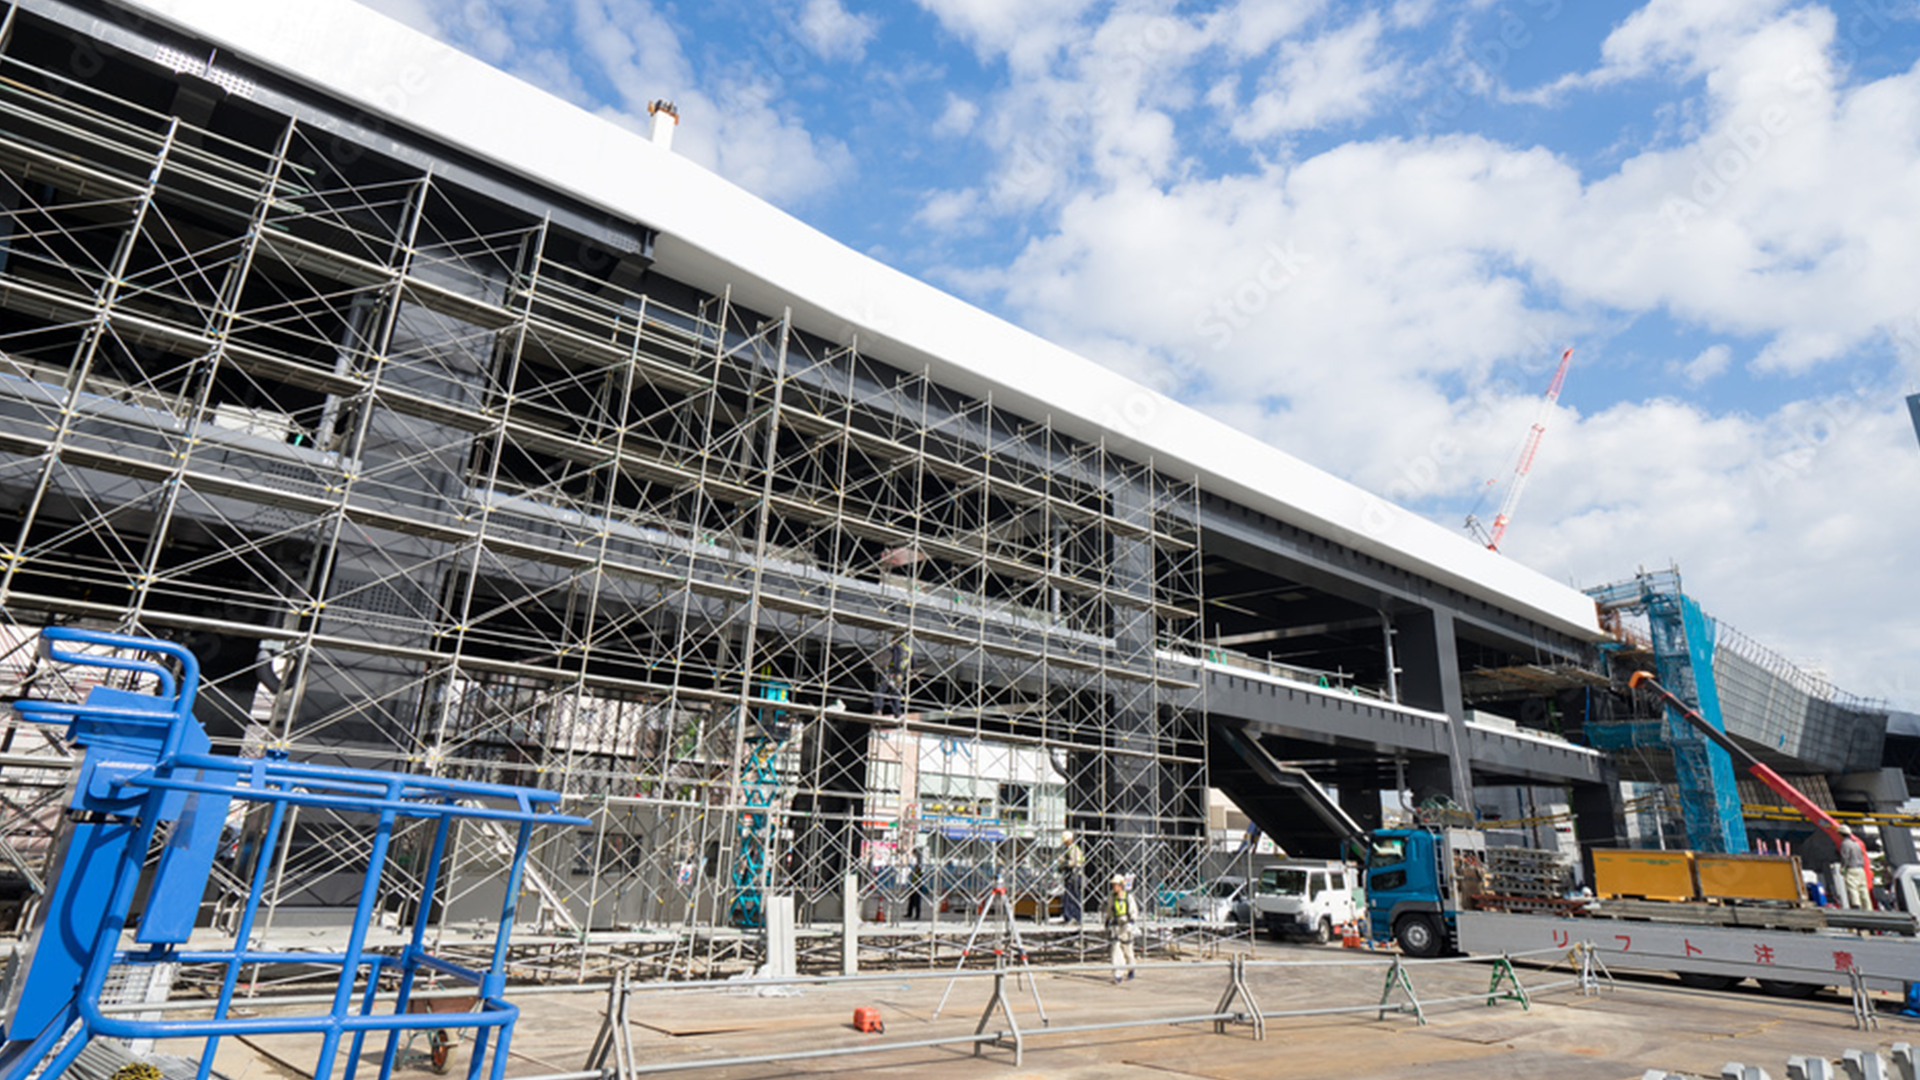
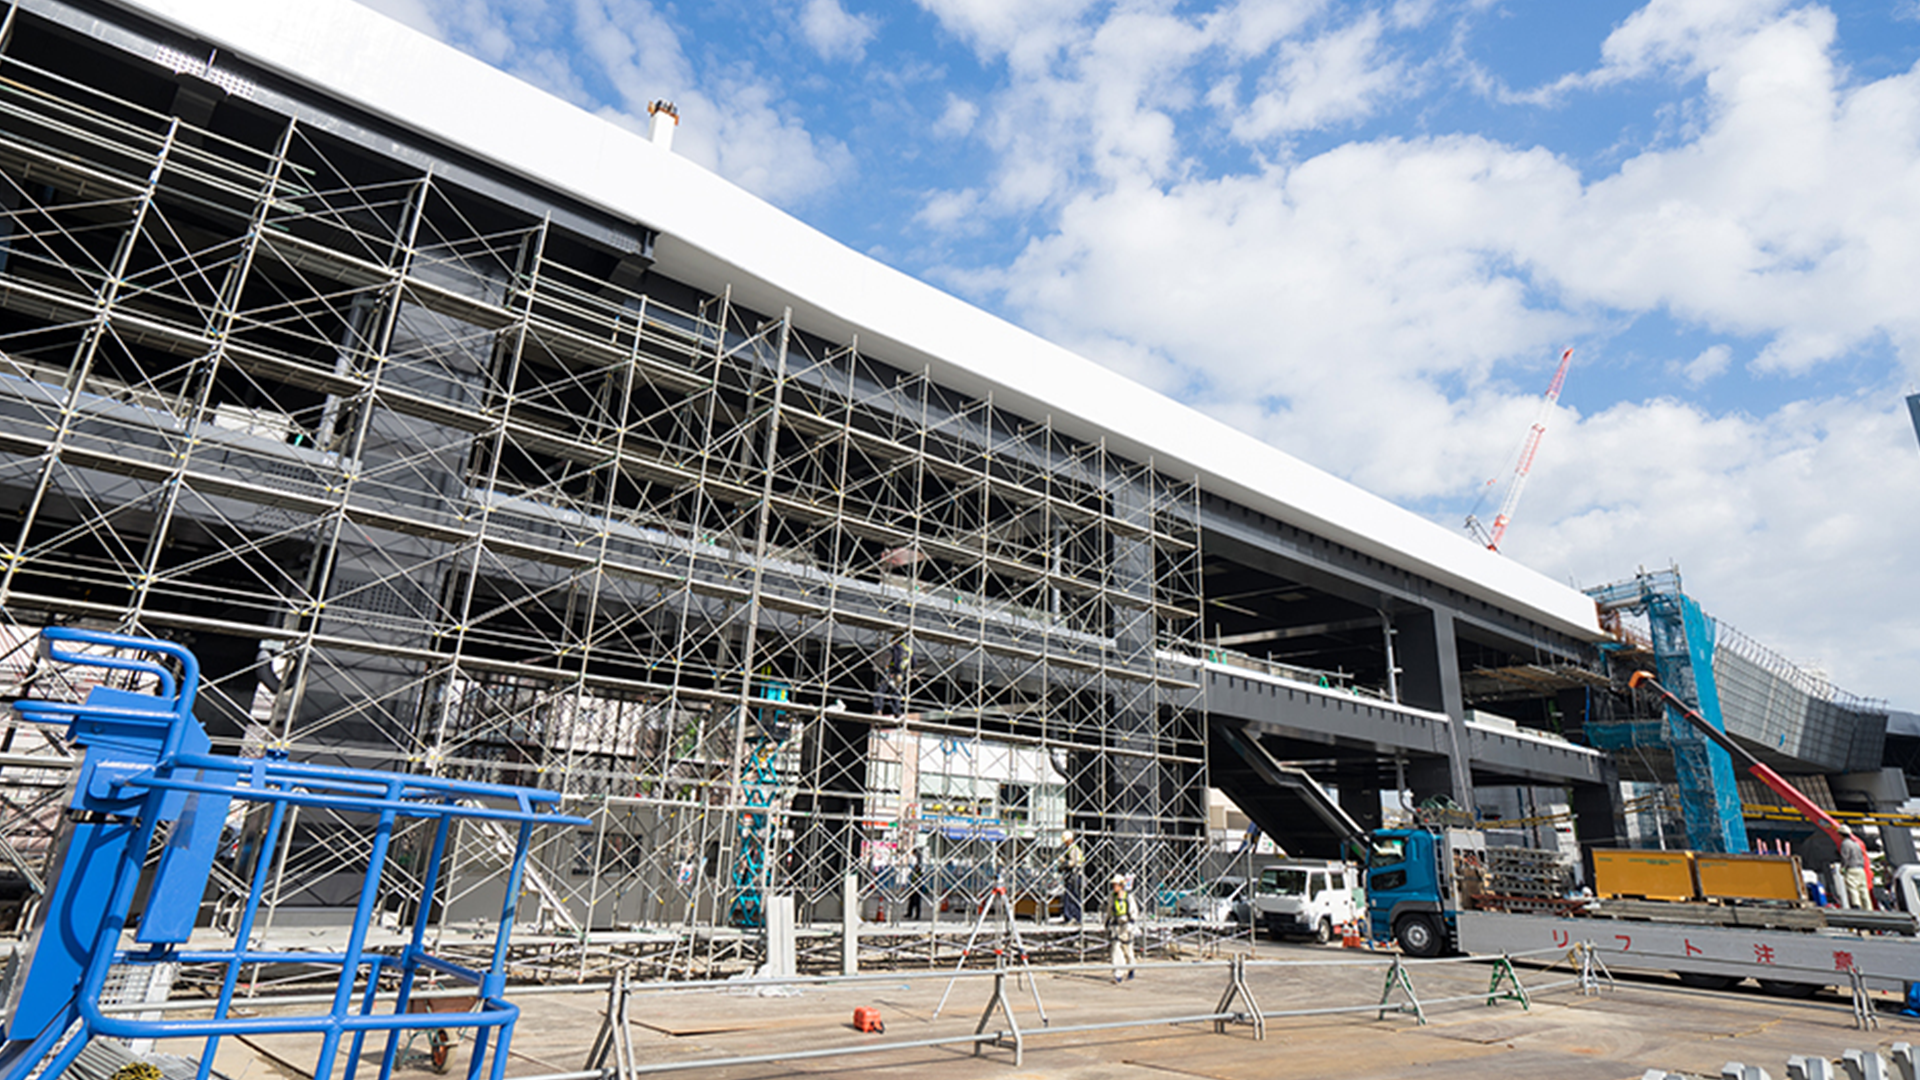
“Adobe写真差し替え”

diff --git a/src/components/omoi/MessagePhase.tsx b/src/components/omoi/MessagePhase.tsx
@@ -23,7 +23,7 @@ const LEFT_IMAGES = [
   { src: "/images/section3/scene5.webp", height: "h-[160px]" },
 ];
 
-// 右側（SP下部）用画像（6枚）※ファイル名は実際のプロジェクトアセットに合わせて調整してほしい[cite: 2]
+// 右側（SP下部）用画像（6枚）
 const RIGHT_IMAGES = [
   { src: "/images/section3/scene6.webp", height: "h-[160px]" },
   { src: "/images/section3/scene7.webp", height: "h-[160px]" },
@@ -41,7 +41,7 @@ interface Props {
 
 export default function MessagePhase({ scrollYProgress }: Props) {
   // ==========================================
-  // 前半フェーズのスクロール制御（0.0 ~ 0.5 に圧縮）
+  // 前半フェーズのスクロール制御
   // ==========================================
 
   const scene1Opacity = useTransform(
@@ -76,7 +76,7 @@ export default function MessagePhase({ scrollYProgress }: Props) {
   );
 
   // ==========================================
-  // 放射アニメーション（0.25 ~ 0.375 付近で発火）
+  // 放射アニメーション
   // ==========================================
   const radialOpacity0 = useTransform(scrollYProgress, [0.25, 0.325], [0, 0.6]);
   const radialScale0 = useTransform(scrollYProgress, [0.25, 0.35], [0.2, 1]);
@@ -121,7 +121,6 @@ export default function MessagePhase({ scrollYProgress }: Props) {
 
   return (
     <div className="absolute inset-0 w-full h-full pointer-events-none z-10 overflow-hidden flex items-center justify-center">
-      {/* 背景レイヤー（省略せず記述） */}
       <div className="absolute inset-0 w-full h-full z-0" aria-hidden="true">
         <motion.div
           style={{
@@ -190,7 +189,7 @@ export default function MessagePhase({ scrollYProgress }: Props) {
                 fill
                 sizes="20vw"
                 className="object-cover opacity-70"
-                priority={index < 2} // ★ 先回り提案: 画面内に入る最初の画像を優先ロード
+                priority={index < 2}
               />
             </div>
           ))}
@@ -263,7 +262,7 @@ export default function MessagePhase({ scrollYProgress }: Props) {
                 fill
                 sizes="60vw"
                 className="object-cover opacity-70"
-                priority={index < 2} // ★ 先回り提案
+                priority={index < 2}
               />
             </div>
           ))}
@@ -298,7 +297,7 @@ export default function MessagePhase({ scrollYProgress }: Props) {
                 fill
                 sizes="60vw"
                 className="object-cover opacity-70"
-                priority={index < 2} // ★ 先回り提案
+                priority={index < 2}
               />
             </div>
           ))}
@@ -358,7 +357,6 @@ export default function MessagePhase({ scrollYProgress }: Props) {
           className="absolute inset-0 flex flex-col items-center justify-center w-full h-full"
         >
           <div className="absolute inset-0 flex items-center justify-center pointer-events-none z-0">
-            {/* 0社, 3社, 10社, 1社, 5社の放射アニメーション（省略せず記述） */}
             <motion.div
               style={{
                 opacity: radialOpacity0,

diff --git a/src/components/omoi/LoadingPhase.tsx b/src/components/omoi/LoadingPhase.tsx
@@ -18,8 +18,6 @@ const BACKGROUND_IMAGES = [
   "/images/photo/scene10.webp",
 ];
 
-// 【演出のキモ】各画像の表示時間を配列で定義（ミリ秒）
-// ゆっくり始まり → 加速し → 最後（10枚目）で長く「タメる」
 const TIMINGS = [800, 600, 400, 200, 150, 150, 150, 200, 300, 1500];
 
 // プログレスバー用に合計時間を計算
@@ -46,10 +44,8 @@ export default function LoadingPhase({
 
   // 2. 可変リズムの画像切り替えロジック
   useEffect(() => {
-    // 最後の画像を「タメた」あと、Phase 2へ移行
     if (currentImageIndex >= BACKGROUND_IMAGES.length - 1) {
       const timeout = setTimeout(() => {
-        // 👇 状態更新をstartTransitionでラップしてレンダリングの優先度を下げる
         startTransition(() => {
           onComplete();
         });
@@ -57,7 +53,6 @@ export default function LoadingPhase({
       return () => clearTimeout(timeout);
     }
 
-    // TIMINGS配列で指定した秒数後に、次の画像へインデックスを進める
     const timeout = setTimeout(() => {
       setCurrentImageIndex((prev) => prev + 1);
     }, TIMINGS[currentImageIndex]);
@@ -73,7 +68,6 @@ export default function LoadingPhase({
       )}
       style={{ backgroundColor: "#003064" }}
     >
-      {/* --- 背景画像の切り替え（スケール＋イージング追加） --- */}
       <AnimatePresence mode="popLayout">
         <motion.img
           key={currentImageIndex}
@@ -85,8 +79,8 @@ export default function LoadingPhase({
           initial={{ opacity: 0, scale: 1.1 }}
           animate={{ opacity: 0.6, scale: 1 }}
           transition={{
-            opacity: { duration: 0.2 }, // 0.2秒でパッとフェードイン
-            scale: { duration: 4, ease: "easeOut" }, // 4秒かけてゆっくり縮小（表示中は常に動き続ける）
+            opacity: { duration: 0.2 },
+            scale: { duration: 4, ease: "easeOut" },
           }}
           style={{ willChange: "transform, opacity" }}
         />
@@ -106,7 +100,7 @@ export default function LoadingPhase({
         />
       </motion.div>
 
-      {/* --- ローディングバー（全体の可変時間と同期） --- */}
+      {/* --- ローディングバー --- */}
       <div
         className={cn(
           "relative z-10 w-48 md:w-64 h-px bg-white/20 mt-8 overflow-hidden",
@@ -116,14 +110,13 @@ export default function LoadingPhase({
           className="h-full bg-white"
           initial={{ width: "0%" }}
           animate={{ width: "100%" }}
-          // TOTAL_DURATIONを使って、加速やタメを含めた全体の時間とバーの進行をピッタリ合わせる
           transition={{ duration: TOTAL_DURATION, ease: "easeInOut" }}
         />
       </div>
       <motion.div
         className={cn("absolute inset-0 bg-midblue z-50 pointer-events-none")}
         initial={{ opacity: 0 }}
-        exit={{ opacity: 1 }} // コンポーネントが破棄される瞬間にフェードイン（不透明になる）
+        exit={{ opacity: 1 }}
         transition={{ duration: 0.6, ease: "easeInOut" }}
       />
     </motion.div>

diff --git a/src/components/omoi/MapTransitionPhase.tsx b/src/components/omoi/MapTransitionPhase.tsx
@@ -9,31 +9,17 @@ export default function MapTransitionPhase() {
 
   const { scrollYProgress } = useScroll({
     target: containerRef,
-    // 💡 修正ポイント：トリガーのタイミングを調整
-    // FVの直下に配置されるため、このセクションの頭が画面下部に入った瞬間に開始
     offset: ["start end", "end start"],
   });
 
   // --- 1. 日本地図のスケール（画面中央から巨大化） ---
-  // スクロールの序盤（0〜0.4）で圧倒的な倍率へ
   const svgScale = useTransform(scrollYProgress, [0, 0.4], [0, 300]);
 
   // --- 2. 隙間防止用の強制塗りつぶしレイヤー ---
-  // スケールの拡大が終わる直前（0.35〜0.4）で青にフェードイン
   const blueFillOpacity = useTransform(scrollYProgress, [0.35, 0.4], [0, 1]);
 
   return (
-    <section
-      ref={containerRef}
-      // 👇 ネガティブマージン (-mt-[100vh]) を完全削除。
-      // これによりFVに被らず、FVの下から自然にスクロールインしてくる。
-      className="relative w-full h-[400vh]"
-    >
-      {/* 
-         💡 stickyの開始位置を top-0 に設定。
-         FVをスクロールしきって、このセクションの頭が画面上端に来たら固定される。
-         背景は白（bg-white）で、FVのダークなトーンから切り替わる。
-      */}
+    <section ref={containerRef} className="relative w-full h-[400vh]">
       <div className="sticky top-0 left-0 w-full h-screen overflow-hidden bg-white flex items-center justify-center">
         {/* =========================================================
             メイン：中央から拡大する日本地図レイヤー
@@ -41,15 +27,12 @@ export default function MapTransitionPhase() {
         <motion.div
           style={{
             scale: svgScale,
-            // 💡 中心を絶対に固定
             originX: 0.5,
             originY: 0.5,
             willChange: "transform",
           }}
-          // w-[50vw] でPC閲覧時に適切な初期サイズを担保
           className="absolute w-[50vw] max-w-[600px] flex items-center justify-center"
         >
-          {/* public/images/section2/japan.svg */}
           <img
             src="/images/section2/japan.svg"
             alt="Japan Map"

diff --git a/src/components/omoi/JapanMapInteractive.tsx b/src/components/omoi/JapanMapInteractive.tsx
@@ -12,7 +12,6 @@ interface Props {
   activeRegionId: string;
 }
 
-// サイズ感を安定させたカメラワーク設定（PC/SP）
 const CAMERA_CONFIG: Record<string, { pc: any; sp: any }> = {
   hokkaido: {
     pc: { scale: 2.2, x: "5%", y: "55%" },
@@ -65,14 +64,12 @@ const JapanMapInteractive = memo(({ activePrefId, activeRegionId }: Props) => {
   const config = CAMERA_CONFIG[activeRegionId] || CAMERA_CONFIG.kanto;
   const targetCamera = isMobile ? config.sp : config.pc;
 
-  // 📌 現在アクティブな地方に属する「都道府県IDのリスト」を取得
   const activeRegion = REGIONS.find((r) => r.id === activeRegionId);
   const activeRegionPrefIds = activeRegion
     ? activeRegion.prefectures.map((p) => p.prefId)
     : [];
 
   return (
-    // 📌 地図全体が暴走しないよう、最大幅と中央配置を制限するインナーコンテナ
     <div className="relative w-full max-w-[300px] md:max-w-[500px] aspect-[3750.8/4260.3] flex items-center justify-center pointer-events-none">
       <motion.div
         animate={targetCamera}
@@ -85,9 +82,8 @@ const JapanMapInteractive = memo(({ activePrefId, activeRegionId }: Props) => {
           aria-hidden="true"
         >
           {MAP_PATHS.map((pref) => {
-            // 📌 3段階の判定ロジック
-            const isActivePref = activePrefId === pref.id; // ①ドンピシャの県
-            const isActiveRegion = activeRegionPrefIds.includes(pref.id); // ②同じ地方の県
+            const isActivePref = activePrefId === pref.id;
+            const isActiveRegion = activeRegionPrefIds.includes(pref.id);
 
             return (
               <path

diff --git a/src/components/omoi/Phase9_Finale.tsx b/src/components/omoi/Phase9_Finale.tsx
@@ -86,15 +86,6 @@ function Phase9Content() {
     [0, 0.6, 0.85, 0.85],
   );
 
-  // H2とP要素を包む「全体コンテナ」のアニメーション
-  // const containerY = useTransform(
-  //   scrollYProgress,
-  //   [0.35, 0.45, 0.5, 0.6, 0.95, 1],
-  //   isMobile
-  //     ? ["35vh", "35vh", "15vh", "15vh", "-70vh", "-70vh"] // SP
-  //     : ["35vh", "35vh", "12vh", "12vh", "-60vh", "-60vh"], // PC
-  // );
-
   // 1. 要素自身の高さに対する移動量（0%から-100%へ）
   const yPercent = useTransform(
     scrollYProgress,
@@ -180,11 +171,8 @@ function Phase9Content() {
               className="absolute inset-0 bg-linear-to-b from-black/80 via-black/60 to-black/90 pointer-events-none"
             />
           </motion.div>
-
-          {/* ----- コンテンツレイヤー ----- */}
-          {/* justify-center ではなくトップ起点のコンテナを用意 */}
+          {/* ----- コンテンツレイヤー ----- */}\
           <div className="absolute inset-0 w-full pointer-events-none overflow-hidden">
-            {/* このラッパーごと上下に動かす */}
             <motion.div
               style={{ y: containerY, willChange: "transform" }}
               className="w-full max-w-4xl mx-auto px-8 md:px-12 flex flex-col items-start"

diff --git a/src/components/omoi/Phase5_6_BirthAndWhy.tsx b/src/components/omoi/Phase5_6_BirthAndWhy.tsx
@@ -14,14 +14,11 @@ export default function Phase5_6_BirthAndWhy() {
   });
 
   // --- Phase5（誕生）のタイムライン設計 ---
-  // 💡 出現タイミングを微調整し、キープ（タメ）区間を 0.35 -> 0.4 へ延長
   const phase5Opacity = useTransform(
     scrollYProgress,
     [0, 0.05, 0.4, 0.5],
     [0, 1, 1, 0],
   );
-  // 💡 大→小(1→0.9)から、小→大へのスケールアップに変更
-  // 出現時(0.85 -> 1)にフワッと大きくなり、タメ区間(1 -> 1.05)でじわじわ迫ってくる演出
   const phase5Scale = useTransform(
     scrollYProgress,
     [0, 0.05, 0.4, 0.5],
@@ -32,8 +29,7 @@ export default function Phase5_6_BirthAndWhy() {
   const bgScale = useTransform(scrollYProgress, [0.1, 1], [0.4, 1.2]);
   const bgOpacity = useTransform(scrollYProgress, [0.1, 1], [0, 0.08]);
 
-  // --- Phase6（テキスト統合版）タイムライン設計 ---
-  // Phase5のタメ延長に合わせて、出現タイミングを後ろにシフト
+  // --- Phase6 タイムライン設計 ---
   const h2Opacity = useTransform(
     scrollYProgress,
     [0.45, 0.55, 0.85, 0.95],

diff --git a/src/components/omoi/Phase4_LightOfHope.tsx b/src/components/omoi/Phase4_LightOfHope.tsx
@@ -9,11 +9,9 @@ interface Props {
 }
 
 export default function Phase4_LightOfHope({ scrollYProgress }: Props) {
-  // 💡 追加：背景のクロスフェード制御
-  // Phase3が0.45〜0.5で消えゆくのと交差するように、0.45〜0.5で背景をフェードインさせる
   const bgOpacity = useTransform(scrollYProgress, [0.45, 0.5], [0, 1]);
 
-  // 💡 テキストのアニメーション
+  // テキストのアニメーション
   const textOpacity = useTransform(
     scrollYProgress,
     [0.5, 0.55, 0.82, 0.88],

diff --git a/src/components/omoi/MapStoryWrapper.tsx b/src/components/omoi/MapStoryWrapper.tsx
@@ -19,7 +19,6 @@ export default function MapStoryWrapper() {
       ref={containerRef}
       className="relative w-full h-[800vh] bg-midblue"
     >
-      {/* 画面に固定（FIX）されるコンテナ。この中で2つのコンポーネントがオーバーラップする */}
       <div className="sticky top-0 left-0 w-full h-svh overflow-hidden">
         <MessagePhase scrollYProgress={scrollYProgress} />
         <PrefectureHighlightPhase scrollYProgress={scrollYProgress} />

diff --git a/src/components/omoi/Phase8_Circulation.tsx b/src/components/omoi/Phase8_Circulation.tsx
@@ -65,8 +65,6 @@ export default function Phase8_Circulation() {
   // 画像のクロスフェード制御（オパシティ・リレー方式）
   // ==========================================
   // 画像1は常に最下層で不透明度1（ベースとして固定）
-
-  // 💡 修正点: 配列の最後に `1.0`（スクロール終端）を追加し、Opacity `1` を明示的に維持させる
   const img2Opacity = useTransform(
     scrollYProgress,
     [0.15, 0.35, 1.0],

diff --git a/src/components/omoi/Phase7_NewStandard.tsx b/src/components/omoi/Phase7_NewStandard.tsx
@@ -19,7 +19,7 @@ export default function Phase7_NewStandard() {
   });
 
   // ==========================================
-  // 1. 背景色とグリッド線の色をクロスフェード（0.3 〜 0.4 で暗→明）
+  // 1. 背景色とグリッド線の色をクロスフェード
   // ==========================================
   const backgroundColor = useTransform(
     scrollYProgress,

diff --git a/src/components/omoi/JapanMapSVG.tsx b/src/components/omoi/JapanMapSVG.tsx
@@ -7,7 +7,6 @@ export default function JapanMapSVG({ className, ...props }: JapanMapSVGProps) {
     <svg
       xmlns="http://www.w3.org/2000/svg"
       viewBox="0 0 1040.2 942"
-      // overflow-visible をTailwindで追加
       className={`overflow-visible ${className || ""}`}
       {...props}
     >
